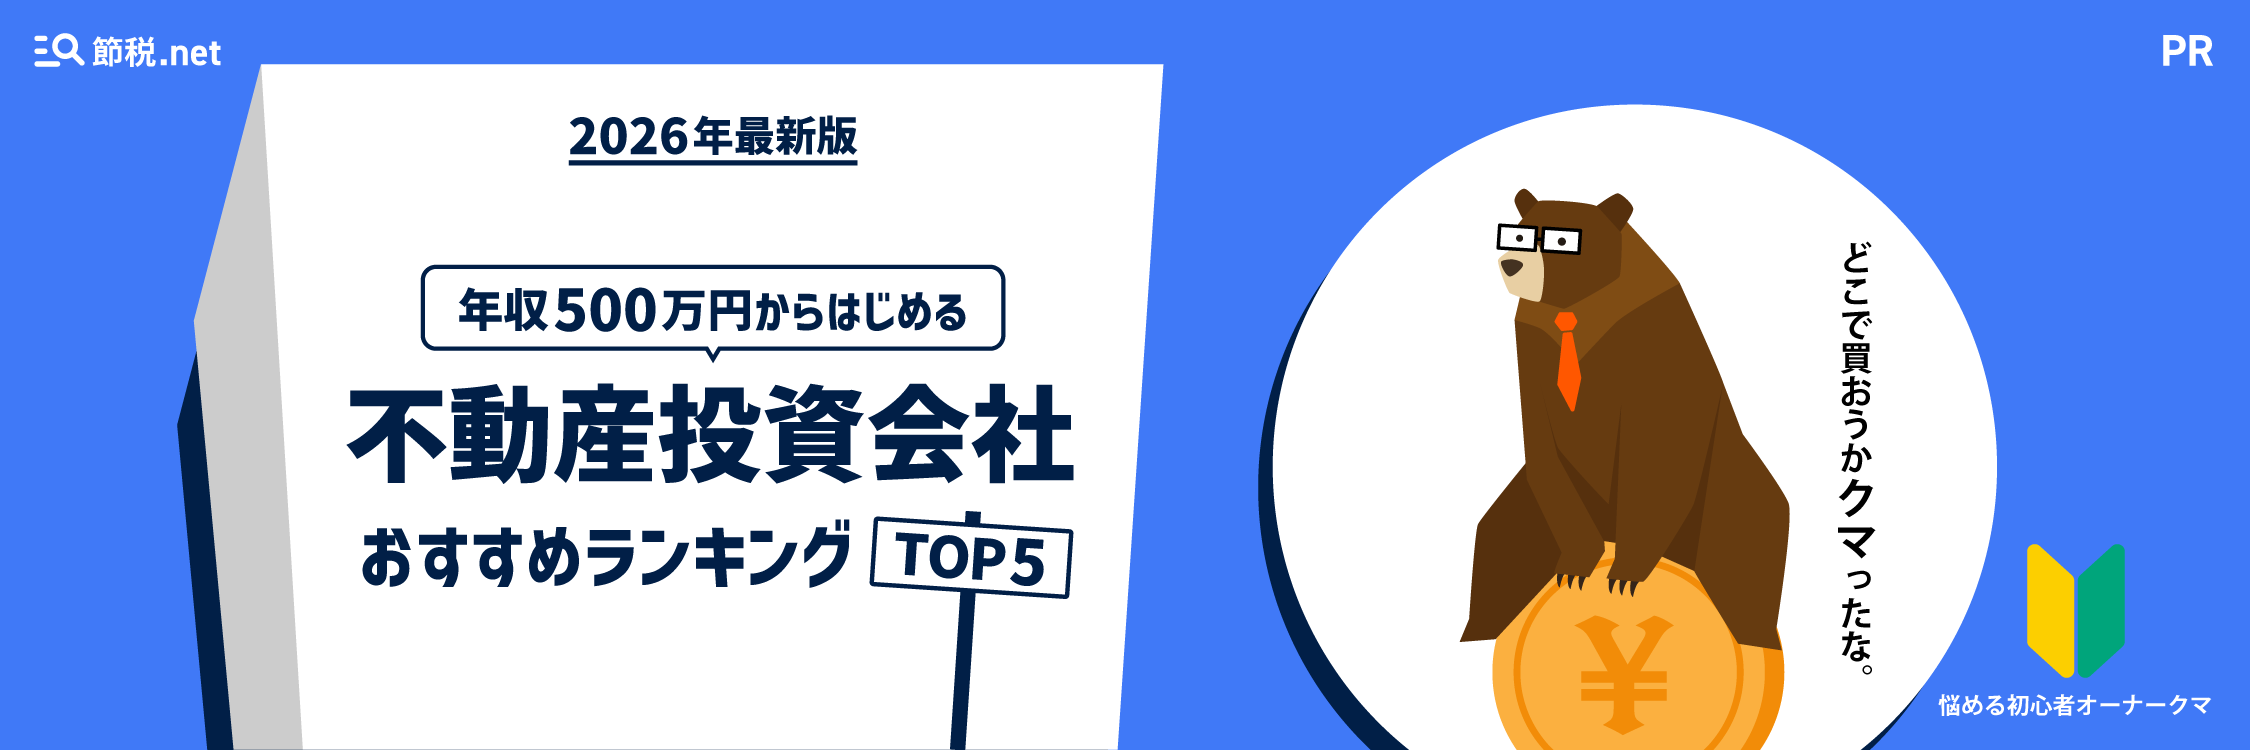
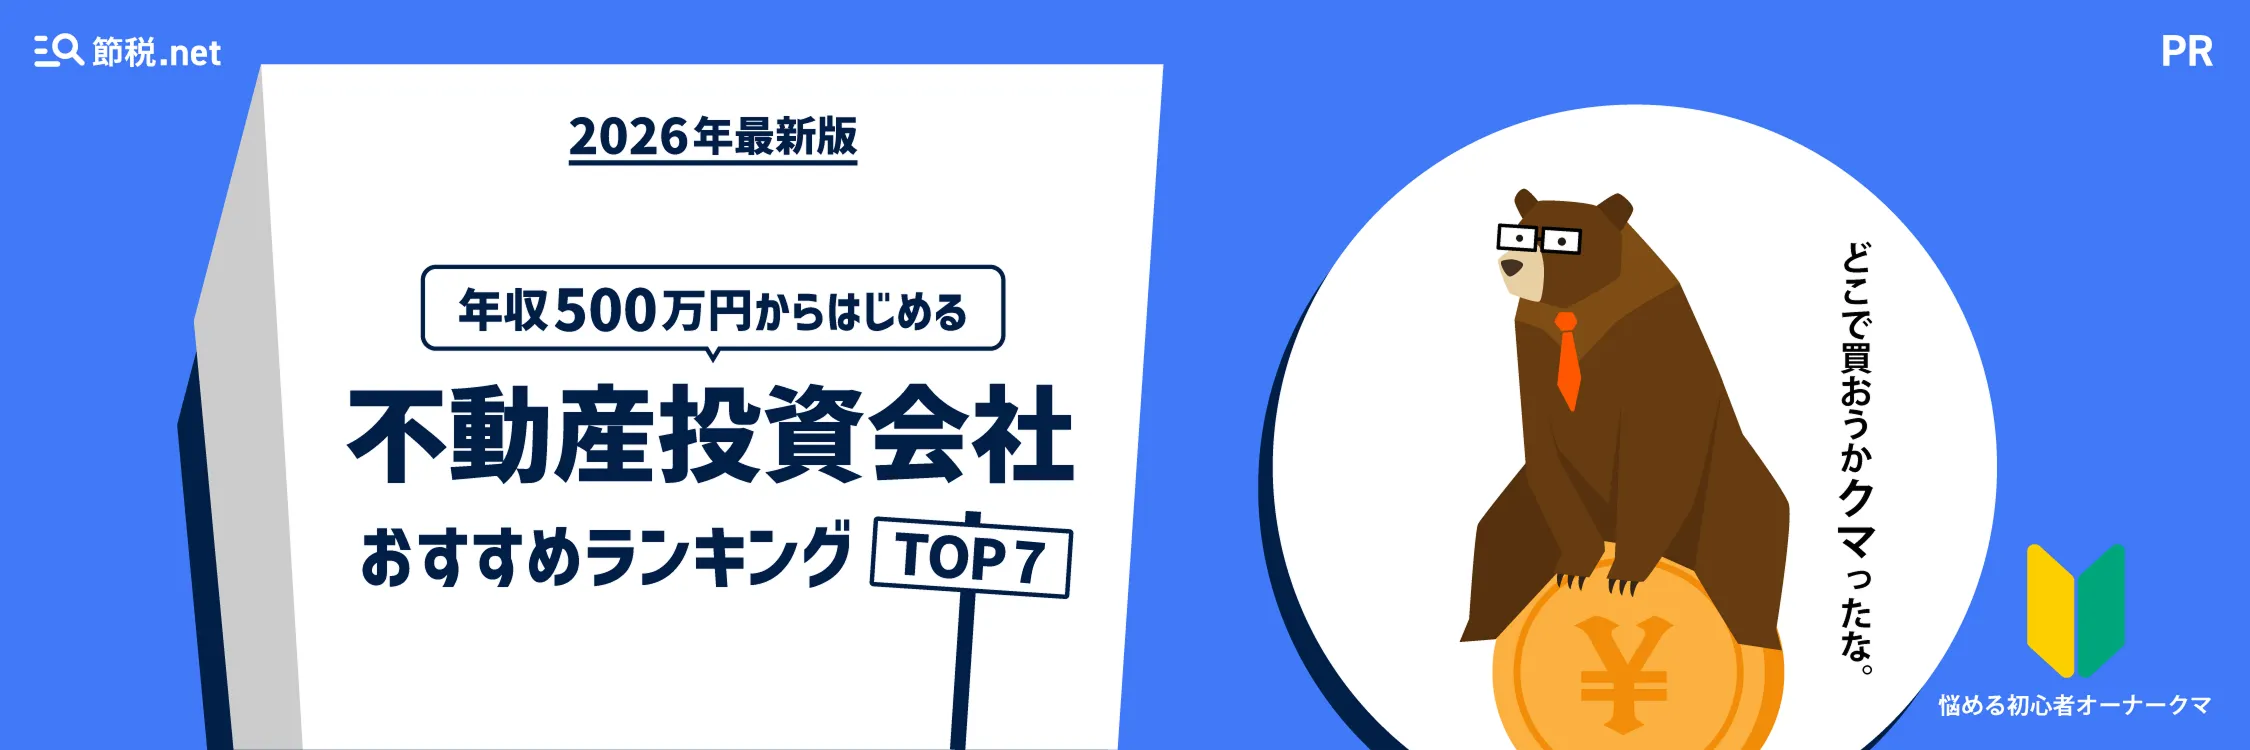
Add SVG files for medals 6 and 7 with distinct designs and colors

diff --git a/realestateinvestment/index.html b/realestateinvestment/index.html
@@ -33,7 +33,7 @@
     <!-- End Google Tag Manager (noscript) -->
     <div class="max-w-6xl">
         <div class="meta-info">
-            <span>更新日：2026年06月22日</span>
+            <span>更新日：2026年06月23日</span>
             <span>このページはプロモーションを含みます</span>
         </div>
         <picture>
@@ -152,7 +152,7 @@
 
                 <!-- ランキング表 -->
                 <section id="ranking" class="comparison-section">
-                    <h2 class="section-title section-title-band" data-badge="初めてにおすすめ"> 人気の不動産会社TOP5 </h2>
+                    <h2 class="section-title section-title-band" data-badge="初めての方におすすめ"> 人気の不動産会社TOP7 </h2>
 
                     <div class="ranking-tabs">
                         <button type="button" class="ranking-tab is-active" data-tab-target="service">サービス</button>
@@ -255,7 +255,7 @@
                                             <a href="https://h.accesstrade.net/sp/cc?rk=0100oblq00om8y" target="_blank" rel="noopener sponsored" class="btn-table" data-company="propertyagent"> プロパティ<br class="sp-only">エージェント <img src="/realestateinvestment/images/materials/external-link.svg" alt="別タブ" class="external-icon" loading="lazy">
                                             </a>
                                         </td>
-                                        <td class="col-group-service"><span class="strong-text">92</span> 点</td>
+                                        <td class="col-group-service"><span class="strong-red-text">92</span> 点</td>
                                         <td class="col-group-service" data-eval="a">面談参加で<br><span class="marker-yellow">選べるギフト券<br><span class="highlight-text">5万円分</span>プレゼント</span><span class="annotation-mark">※1</span></td>
                                         <td class="col-group-service" data-eval="a">99.76%<br><span class="annotation-mark">（2026年5月時点）</span></td>
                                         <td class="col-group-service" data-eval="b">管理手数料<br>永年無料プラン有り</td>
@@ -315,7 +315,7 @@
                                             <a href="https://px.a8.net/svt/ejp?a8mat=4AVAC9+8NDQ5U+4SNA+5YJRM" target="_blank" rel="noopener sponsored" class="btn-table" data-company="fundrop"> ファンドロップ <img src="/realestateinvestment/images/materials/external-link.svg" alt="別タブ" class="external-icon" loading="lazy">
                                             </a>
                                         </td>
-                                        <td class="col-group-service"><span class="strong-text">80</span> 点</td>
+                                        <td class="col-group-service"><span class="strong-text">83</span> 点</td>
                                         <td class="col-group-service" data-eval="e">なし<br>※面談不要</td>
                                         <td class="col-group-service" data-eval="e">該当なし</td>
                                         <td class="col-group-service" data-eval="a">完全お任せ<br>スマホで運用可能</td>
@@ -333,6 +333,66 @@
                                         <td class="col-group-company">1億円</td>
                                         <td class="col-group-company">非公開</td>
                                         <td class="col-group-company">非公開</td>
+                                        <td class="col-group-company">未上場</td>
+                                    </tr>
+
+                                    <tr>
+                                        <td class="sticky-col">
+                                            <div class="company-logo-wrapper">
+                                                <img src="/realestateinvestment/images/materials/medal-6.svg" alt="6位" width="28" height="32" class="medal-icon table-medal-pos" decoding="async">
+                                                <img src="/realestateinvestment/images/logos/shinoken_logo.png" alt="シノケンハーモニー ロゴ" width="140" height="18" class="company-logo-img" loading="lazy">
+                                            </div>
+                                            <a href="https://www.fudosantoushi.jp/" target="_blank" rel="noopener sponsored" class="btn-table" data-company="shinoken"> シノケンハーモニー <img src="/realestateinvestment/images/materials/external-link.svg" alt="別タブ" class="external-icon" loading="lazy">
+                                            </a>
+                                        </td>
+                                        <td class="col-group-service"><span class="strong-text">82</span> 点</td>
+                                        <td class="col-group-service" data-eval="a">WEB面談で<br>QUOカードペイ最大6万円分<br>プレゼント<span class="annotation-mark">※1</span></td>
+                                        <td class="col-group-service" data-eval="b">99.0%<br><span class="annotation-mark">（2025年年間平均）</span></td>
+                                        <td class="col-group-service" data-eval="b">基本お任せ</td>
+                                        <td class="col-group-service" data-eval="b">頭金0円</td>
+                                        <td class="col-group-service" data-eval="b">中古マンション、一棟アパート、リノベーションマンション</td>
+                                        <td class="col-group-service" data-eval="b">東京23区、川崎市、横浜市</td>
+                                        <td class="col-group-service" data-eval="e">非公表</td>
+                                        <td class="col-group-service" data-eval="b">グループ企業</td>
+                                        <td class="col-group-service" data-eval="b">デザイナーズマンションを自社で企画・開発</td>
+                                        <td class="col-group-company">シノケンハーモニー株式会社</td>
+                                        <td class="col-group-company">三浦 義明</td>
+                                        <td class="col-group-company">東京都港区浜松町二丁目3番1号<br>日本生命浜松町クレアタワー</td>
+                                        <td class="col-group-company">2011年5月24日</td>
+                                        <td class="col-group-company">東京都知事(2)第102658号</td>
+                                        <td class="col-group-company">3,000万円</td>
+                                        <td class="col-group-company">1,224人（グループ社員数）<br><span class="annotation-mark">※2026年3月末時点</span></td>
+                                        <td class="col-group-company">1,309億（グループ売上）<br><span class="annotation-mark">※2025年12月時点</span></td>
+                                        <td class="col-group-company">株式会社シノケングループ 100%出資</td>
+                                    </tr>
+
+                                    <tr>
+                                        <td class="sticky-col">
+                                            <div class="company-logo-wrapper">
+                                                <img src="/realestateinvestment/images/materials/medal-7.svg" alt="7位" width="28" height="32" class="medal-icon table-medal-pos" decoding="async">
+                                                <img src="/realestateinvestment/images/logos/toshin_logo.svg" alt="トーシンパートナーズ ロゴ" width="140" height="18" class="company-logo-img" loading="lazy">
+                                            </div>
+                                            <a href="https://www.tohshin.co.jp/lenz/" target="_blank" rel="noopener sponsored" class="btn-table" data-company="toshin"> トーシンパートナーズ <img src="/realestateinvestment/images/materials/external-link.svg" alt="別タブ" class="external-icon" loading="lazy">
+                                            </a>
+                                        </td>
+                                        <td class="col-group-service"><span class="strong-text">81</span> 点</td>
+                                        <td class="col-group-service" data-eval="b">面談参加で<br>Amazonギフトカード最大5万円分<br>プレゼント<span class="annotation-mark">※1</span></td>
+                                        <td class="col-group-service" data-eval="b">99.0%<br><span class="annotation-mark">（2024年度実績）</span></td>
+                                        <td class="col-group-service" data-eval="b">経営業務を代行するトータルサポート</td>
+                                        <td class="col-group-service" data-eval="b">10万円〜</td>
+                                        <td class="col-group-service" data-eval="b">新築・中古区分マンション</td>
+                                        <td class="col-group-service" data-eval="b">首都圏中心</td>
+                                        <td class="col-group-service" data-eval="e">非公表</td>
+                                        <td class="col-group-service" data-eval="b">35年以上の実績</td>
+                                        <td class="col-group-service" data-eval="a">独自ブランドのマンションシリーズ</td>
+                                        <td class="col-group-company">株式会社トーシンパートナーズ</td>
+                                        <td class="col-group-company">小笠原 一義</td>
+                                        <td class="col-group-company">東京都武蔵野市吉祥寺本町1-33-5</td>
+                                        <td class="col-group-company">平成元年2月18日</td>
+                                        <td class="col-group-company">国土交通大臣（2）第9540号</td>
+                                        <td class="col-group-company">10億円</td>
+                                        <td class="col-group-company">457人（グループ全体）<br><span class="annotation-mark">※令和8年4月1日時点</span></td>
+                                        <td class="col-group-company">478億円（グループ連結）<br><span class="annotation-mark">※2025年10月決算</span></td>
                                         <td class="col-group-company">未上場</td>
                                     </tr>
                                 </tbody>